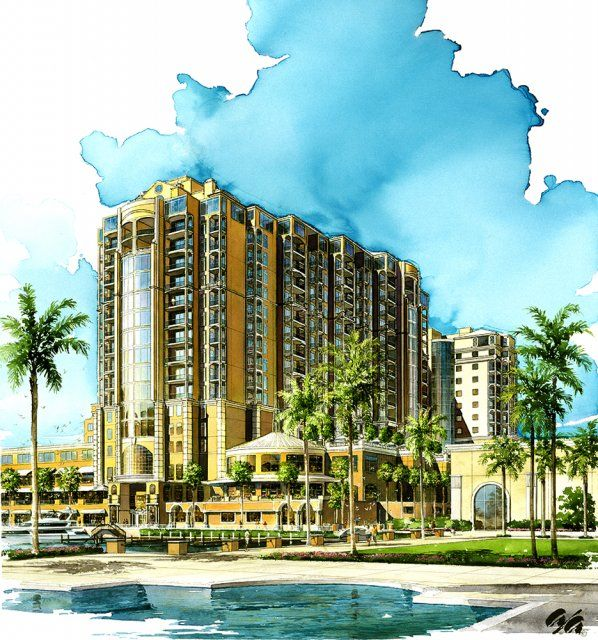
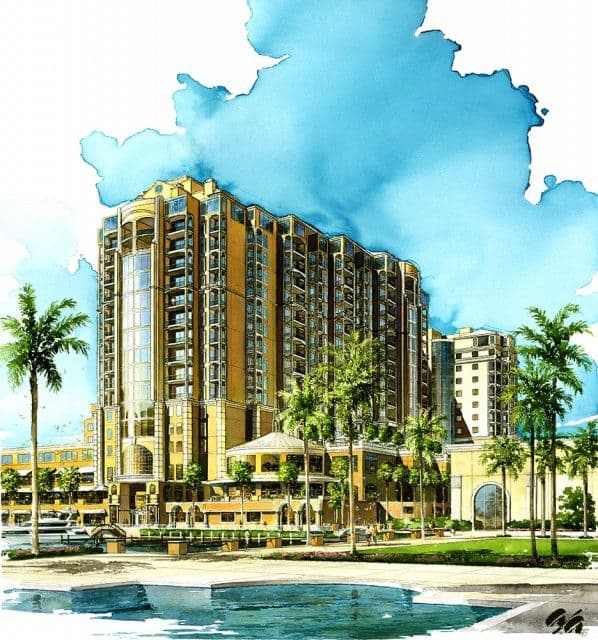
compress img and update styling

diff --git a/src/App.css b/src/App.css
@@ -213,7 +213,7 @@ a:active {
 .defaultHero,
 .roomsHero {
   min-height: calc(100vh - 66px);
-  background: url('./images/background.jpg') center/cover no-repeat;
+  background: url('./images/background.webp') center/cover no-repeat;
   display: flex;
   align-items: center;
   justify-content: center;
@@ -1369,7 +1369,7 @@ label:hover:before {
   width: 100%;
   padding: 0 2rem;
   background-image: linear-gradient(rgba(0, 0, 0, 0.62), rgba(0, 0, 0, 0.519)),
-    url(./images/Tufted-furniture-seating-for-luxury-furniture.jpg);
+    url(./images/footer.webp);
 }
 
 .footer-links {
